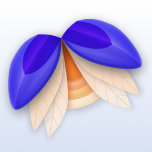
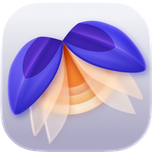
updated appicon assets

diff --git a/_includes/head.html b/_includes/head.html
@@ -3,11 +3,18 @@
   <meta http-equiv="X-UA-Compatible" content="IE=edge">
   {%- if page.title -%}
   <title>{{ page.title }} - {{ site.title }}</title>
-  <meta property="og:title" content="{{ page.title }} - {{ site.title }}" />
   {%- else -%}
   <title>{{ site.title }}</title>
   <meta property="og:title" content="{{ site.title }}" />
   {%- endif -%}
+  <meta name="viewport" content="width=device-width, initial-scale=1">
+  <meta name="supported-color-schemes" content="light dark">
+  <link rel="icon" type="image/png" href="{{ "/assets/images/favicon.png" | absolute_url }}">
+  <link rel="stylesheet" href="{{ "/assets/css/style.css" | absolute_url }}">
+  <link rel="alternate" title="{{ site.title }}" type="application/rss+xml" href="{{ "/feed.xml"  | absolute_url}}"/>
+  <link rel="alternate" title="{{ site.title }}" type="application/json" href="{{ "/feed.json" | absolute_url }}" />
+  <meta name="apple-itunes-app" content="app-id=1433266971, app-argument=https://apps.apple.com/in/app/elytra/id1433266971"/>
+  <meta property="og:title" content="{{ page.title }} - {{ site.title }}" />
   {%- if page.excerpt -%}
   <meta name="description" content="{{ page.excerpt | strip_html | strip }}">
   <meta property="og:description" content="{{ page.excerpt | strip_html | strip }}" />
@@ -21,18 +28,11 @@
   {%- if page.bannerImage -%}
   <meta property="og:image" content="{{ page.bannerImage | append: '@2x.png' | absolute_url  }}" />
   {%- elsif post.bannerImage -%}
-  <meta property="og:image" content="{{ post.bannerImage | append: '@2x.png' | relative_url }}" />
+  <meta property="og:image" content="{{ post.bannerImage | append: '@2x.png' | absolute_url }}" />
   {%- else -%}
   <meta property="og:image" content="{{ "/assets/images/home/hero-lockup-large.png" | absolute_url }}" />
   {%- endif -%}
-  <meta name="viewport" content="width=device-width, initial-scale=1">
-  <meta name="supported-color-schemes" content="light dark">
-  <link rel="icon" type="image/png" href="{{ "/assets/images/favicon.png" | absolute_url }}">
-  <link rel="stylesheet" href="{{ "/assets/css/style.css" | absolute_url }}">
   <link rel="me" href="https://social.dezinezync.com/@elytra"/>
-  <link rel="alternate" title="{{ site.title }}" type="application/rss+xml" href="{{ "/feed.xml"  | absolute_url}}"/>
-  <link rel="alternate" title="{{ site.title }}" type="application/json" href="{{ "/feed.json" | absolute_url }}" />
-  <meta name="apple-itunes-app" content="app-id=1433266971, app-argument=https://apps.apple.com/in/app/elytra/id1433266971">
   <link rel="icon" sizes="180x180" href="{{ "/assets/images/appicon/apple-touch-icon-180x180.png" | absolute_url }}" />
   <link rel="apple-touch-icon" sizes="180x180" href="{{ "/assets/images/appicon/apple-touch-icon-180x180.png" | absolute_url }}" />
   <link rel="apple-touch-icon" sizes="152x152" href="{{ "/assets/images/appicon/apple-touch-icon-152x152.png" | absolute_url }}" />

diff --git a/_includes/blogHeader.html b/_includes/blogHeader.html
@@ -1,8 +1,9 @@
 <header>
   <div class="container readable">
     <div id="logo-title">
-      <picture>
-        <img src="/assets/images/appicon/appicon.png" srcset="/assets/images/appicon/appicon@2x.png 2x, /assets/images/appicon/appicon@3x.png 3x" width="60" height="60"/>
+      <picture id="appicon" style="transform: translateY(0.5rem);">
+        <source media="(prefers-color-scheme: dark)" srcset="/assets/images/home/appicon-dark.png 1x, /assets/images/home/appicon-dark@2x.png 2x, /assets/images/home/appicon-dark@3x.png 3x"/>
+        <img src="/assets/images/home/appicon.png" srcset="/assets/images/home/appicon@2x.png 2x, /assets/images/home/appicon@3x.png 3x" width="60" height="60" loading="lazy"/>
       </picture>
       <h1><a href="/blog">{{ site.title }} <span>Blog</span></a></h1>
     </div>

diff --git a/_includes/header.html b/_includes/header.html
@@ -1,8 +1,9 @@
 <header>
   <div class="container">
     <div id="logo-title">
-      <picture>
-        <img src="/assets/images/appicon/appicon.png" srcset="/assets/images/appicon/appicon@2x.png 2x, /assets/images/appicon/appicon@3x.png 3x" width="60" height="60"/>
+      <picture id="appicon" style="transform: translateY(0.5rem);">
+        <source media="(prefers-color-scheme: dark)" srcset="/assets/images/home/appicon-dark.png 1x, /assets/images/home/appicon-dark@2x.png 2x, /assets/images/home/appicon-dark@3x.png 3x"/>
+        <img src="/assets/images/home/appicon.png" srcset="/assets/images/home/appicon@2x.png 2x, /assets/images/home/appicon@3x.png 3x" width="60" height="60" loading="lazy"/>
       </picture>
       <h1><a href="/">{{ site.title }}</a></h1>
     </div>

diff --git a/_layouts/home.html b/_layouts/home.html
@@ -7,6 +7,7 @@
   <header>
     <div class="container">
       <picture id="appicon">
+        <source media="(prefers-color-scheme: dark)" srcset="/assets/images/home/appicon-dark.png 1x, /assets/images/home/appicon-dark@2x.png 2x, /assets/images/home/appicon-dark@3x.png 3x"/>
         <img src="/assets/images/home/appicon.png" srcset="/assets/images/home/appicon@2x.png 2x, /assets/images/home/appicon@3x.png 3x" width="170" height="170" loading="eager"/>
       </picture>
       <hgroup>
